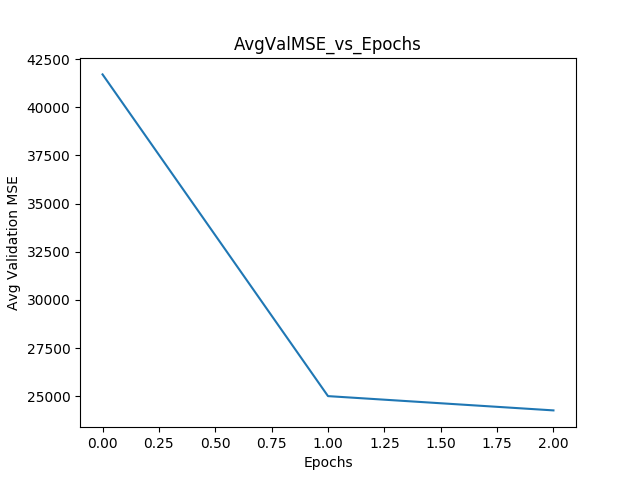
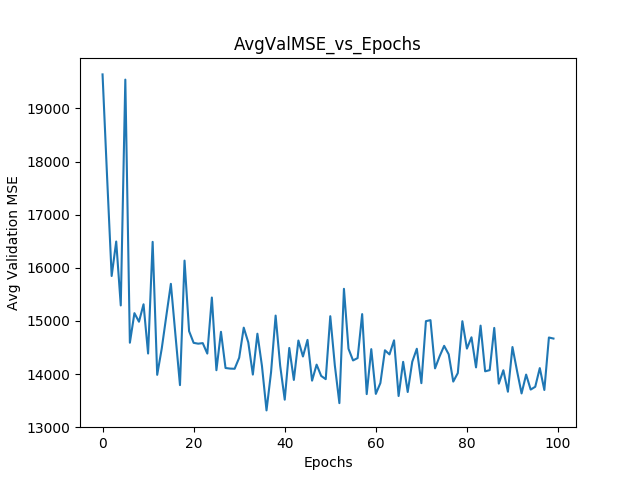
set up code for new model and got it to work.

diff --git a/models_pytorch.py b/models_pytorch.py
@@ -230,4 +230,144 @@ class simpleUNET(nn.Module):
         return out
 ##################################################################################################
 
+## FPN
+'''FPN in PyTorch.
 
+See the paper "Feature Pyramid Networks for Object Detection" for more details.
+'''
+class Bottleneck(nn.Module):
+    expansion = 4
+
+    def __init__(self, in_planes, planes, stride=1):
+        # print("Bottleneck")
+        super(Bottleneck, self).__init__()
+        # self.conv1 = nn.Conv2d(in_planes, planes, kernel_size=1, bias=False)
+        self.conv1 = nn.Conv2d(in_planes, planes, kernel_size=1, bias=True)
+        self.bn1 = nn.BatchNorm2d(planes)
+        # self.conv2 = nn.Conv2d(planes, planes, kernel_size=3, stride=stride, padding=1, bias=False)
+        self.conv2 = nn.Conv2d(planes, planes, kernel_size=3, stride=stride, padding=1, bias=True)
+        self.bn2 = nn.BatchNorm2d(planes)
+        # self.conv3 = nn.Conv2d(planes, self.expansion*planes, kernel_size=1, bias=False)
+        self.conv3 = nn.Conv2d(planes, self.expansion*planes, kernel_size=1, bias=True)
+        self.bn3 = nn.BatchNorm2d(self.expansion*planes)
+
+        self.shortcut = nn.Sequential()
+        if stride != 1 or in_planes != self.expansion*planes:
+            self.shortcut = nn.Sequential(
+                # nn.Conv2d(in_planes, self.expansion*planes, kernel_size=1, stride=stride, bias=False),
+                nn.Conv2d(in_planes, self.expansion*planes, kernel_size=1, stride=stride, bias=True),
+                nn.BatchNorm2d(self.expansion*planes)
+            )
+
+    def forward(self, x):
+        out = F.relu(self.bn1(self.conv1(x)))
+        out = F.relu(self.bn2(self.conv2(out)))
+        out = self.bn3(self.conv3(out))
+        out += self.shortcut(x)
+        out = F.relu(out)
+        return out
+
+
+class FPN(nn.Module):
+    def __init__(self, block, num_blocks):
+        # print("init")
+        # print(block)
+        # print(num_blocks)
+        super(FPN, self).__init__()
+        self.in_planes = 64
+
+        self.conv1 = nn.Conv2d(3, 64, kernel_size=7, stride=2, padding=3, bias=True)
+        # self.conv1 = nn.Conv2d(3, 64, kernel_size=3, stride=1, padding=3, bias=True)
+        self.bn1 = nn.BatchNorm2d(64)
+
+        # Bottom-up layers
+        self.layer1 = self._make_layer(block,  64, num_blocks[0], stride=1)
+        self.layer2 = self._make_layer(block, 128, num_blocks[1], stride=2)
+        self.layer3 = self._make_layer(block, 256, num_blocks[2], stride=2)
+        self.layer4 = self._make_layer(block, 512, num_blocks[3], stride=2)
+
+        # Top layer
+        self.toplayer = nn.Conv2d(2048, 256, kernel_size=1, stride=1, padding=0)  # Reduce channels
+        self.toplayer2 = nn.Conv2d(256, 64, kernel_size=1, stride=1, padding=0)  # Reduce channels
+        self.toplayer3 = nn.Conv2d(64,3,kernel_size=1,stride=1,padding=0)
+        self.up = nn.Upsample(scale_factor=2, mode='bilinear', align_corners=True)
+        # Smooth layers
+        self.smooth1 = nn.Conv2d(256, 256, kernel_size=3, stride=1, padding=1)
+        self.smooth2 = nn.Conv2d(256, 256, kernel_size=3, stride=1, padding=1)
+        self.smooth3 = nn.Conv2d(256, 256, kernel_size=3, stride=1, padding=1)
+
+        # Lateral layers
+        self.latlayer1 = nn.Conv2d(1024, 256, kernel_size=1, stride=1, padding=0)
+        self.latlayer2 = nn.Conv2d( 512, 256, kernel_size=1, stride=1, padding=0)
+        self.latlayer3 = nn.Conv2d( 256, 256, kernel_size=1, stride=1, padding=0)
+
+    def _make_layer(self, block, planes, num_blocks, stride):
+        strides = [stride] + [1]*(num_blocks-1)
+        layers = []
+        for stride in strides:
+            layers.append(block(self.in_planes, planes, stride))
+            self.in_planes = planes * block.expansion
+        return nn.Sequential(*layers)
+
+    def _upsample_add(self, x, y):
+        '''Upsample and add two feature maps.
+
+        Args:
+          x: (Variable) top feature map to be upsampled.
+          y: (Variable) lateral feature map.
+
+        Returns:
+          (Variable) added feature map.
+
+        Note in PyTorch, when input size is odd, the upsampled feature map
+        with `F.upsample(..., scale_factor=2, mode='nearest')`
+        maybe not equal to the lateral feature map size.
+
+        e.g.
+        original input size: [N,_,15,15] ->
+        conv2d feature map size: [N,_,8,8] ->
+        upsampled feature map size: [N,_,16,16]
+
+        So we choose bilinear upsample which supports arbitrary output sizes.
+        '''
+        _,_,H,W = y.size()
+        return F.upsample(x, size=(H,W), mode='bilinear') + y
+
+    def forward(self, x):
+        # Bottom-up
+        c1 = F.relu(self.bn1(self.conv1(x)))
+        c1 = F.max_pool2d(c1, kernel_size=3, stride=2, padding=1)
+        c2 = self.layer1(c1)
+        c3 = self.layer2(c2)
+        c4 = self.layer3(c3)
+        c5 = self.layer4(c4)
+        # Top-down
+        p5 = self.toplayer(c5)
+        p4 = self._upsample_add(p5, self.latlayer1(c4))
+        p3 = self._upsample_add(p4, self.latlayer2(c3))
+        p2 = self._upsample_add(p3, self.latlayer3(c2))
+        # Smooth
+        p4 = self.smooth1(p4)
+        p3 = self.smooth2(p3)
+        p2 = self.smooth3(p2)
+        p2 = self.toplayer2(p2)
+        p2 = self.up(p2)
+        p2 = self.toplayer3(p2)
+        p2 = self.up(p2)
+        # return p2, p3, p4, p5
+        return p2
+
+
+def FPN101():
+    # return FPN(Bottleneck, [2,4,23,3])
+    #  print("FPN101")
+    return FPN(Bottleneck, [2,2,2,2])
+
+
+def test():
+    net = FPN101()
+    fms = net(Variable(torch.randn(1,3,600,900)))
+    for fm in fms:
+        print(fm.size())
+
+# test()

diff --git a/train_Sony_pytorch.py b/train_Sony_pytorch.py
@@ -6,6 +6,7 @@ import numpy as np
 import matplotlib.pyplot as plt
 from torch.utils.data import Dataset, DataLoader
 from torchvision.transforms import transforms
+#from torchvision.transforms.transforms import ToPILImage as trans
 from torch.autograd import Variable
 import torch.nn.functional as F
 from skimage.measure import compare_ssim
@@ -56,9 +57,9 @@ reg=0.001
 batch_size = 10
 
 #### dev params
-#num_training= 200
-#num_validation = 50
-#num_test = 50
+#num_training= 20
+#num_validation = 7
+#num_test = 7
 
 mask = list(range(num_training))
 train_dataset = torch.utils.data.Subset(sitd_dataset, mask)
@@ -92,7 +93,8 @@ def trainAndTestModel(name):
     elif name == 'unet':
         model = unet()
         # selectedModel = unet()
-
+    elif name == 'FPN':
+        model = FPN(Bottleneck, [2,2,2,2])
     else:
         print('Name variable passed is incorrect')
         return None
@@ -254,8 +256,8 @@ def trainAndTestModel(name):
 ###############################################################################################################################################
 # parameters to select different models ==> Just change here. 
 # name = 'simpleUNET'
-name = 'unet'
-
+# name = 'unet'
+name = 'FPN'
 trainAndTestModel(name)
 
 

diff --git a/sampleTest.py b/sampleTest.py
@@ -1,0 +1,5 @@
+import os
+cwd = os.getcwd()
+l = os.listdir(cwd)
+print(cwd)
+print(l)
